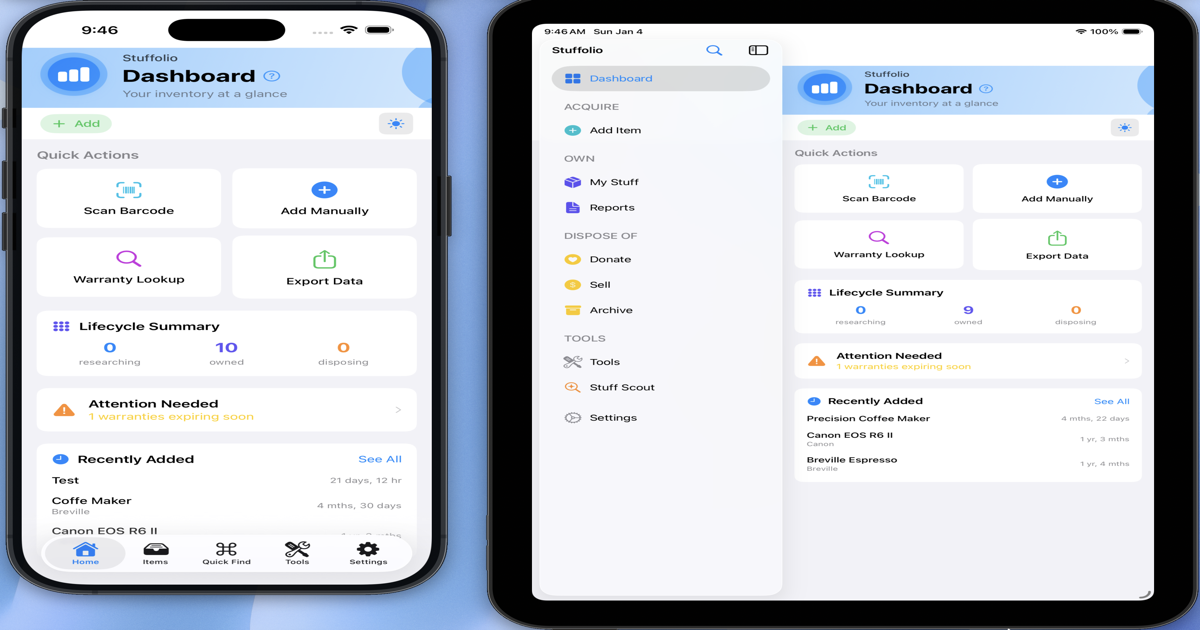
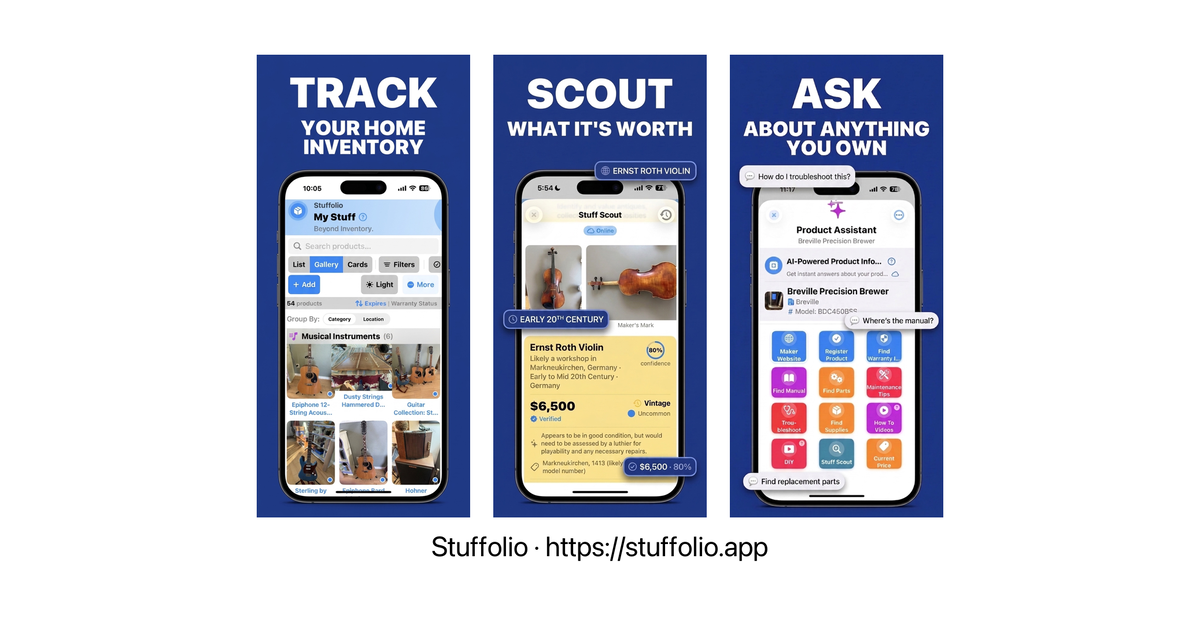
Replace OG share image with TRACK/SCOUT/ASK hero card
The link-preview image (og-image.png) was the dashboard-screenshots
collage, so iMessage/social cards showed the dashboard instead of the
app's hero. Replace it with a 1200x630 card composed from the
app-store-showcase (TRACK / SCOUT / ASK panels + stuffolio.app footer).

Bump og:image and twitter:image to ?v=2 on index.html to bust scraper
caches so the new card is re-fetched.

diff --git a/index.html b/index.html
@@ -21,17 +21,17 @@
   <meta property="og:url" content="https://stuffolio.app/" />
   <meta property="og:title" content="Stuffolio - Know your stuff. Take care of it. Decide what's next." />
   <meta property="og:description" content="Track warranties, document for insurance, plan who gets what, and research anything you own from a photo. The home inventory app built around stewardship." />
-  <meta property="og:image" content="https://stuffolio.app/assets/og-image.png" />
+  <meta property="og:image" content="https://stuffolio.app/assets/og-image.png?v=2" />
   <meta property="og:image:width" content="1200" />
   <meta property="og:image:height" content="630" />
-  <meta property="og:image:alt" content="Stuffolio: know your stuff, take care of it, decide what's next. Home inventory built around stewardship." />
+  <meta property="og:image:alt" content="Stuffolio: Track your home inventory, Scout what it's worth, and Ask about anything you own." />
   <meta property="og:site_name" content="Stuffolio" />
 
   <!-- Twitter Card -->
   <meta name="twitter:card" content="summary_large_image" />
   <meta name="twitter:title" content="Stuffolio - Know your stuff. Take care of it. Decide what's next." />
   <meta name="twitter:description" content="Know your stuff. Take care of it. Decide what's next. Warranties, insurance, legacy planning, and AI research for what you already own." />
-  <meta name="twitter:image" content="https://stuffolio.app/assets/og-image.png" />
+  <meta name="twitter:image" content="https://stuffolio.app/assets/og-image.png?v=2" />
 
   <!-- Canonical URL -->
   <link rel="canonical" href="https://stuffolio.app/" />
@@ -461,7 +461,7 @@
               <h1 style="margin-top:0;">
                 <span class="brand-name">Stuffolio</span>: Know your <span class="stuff-accent">stuff</span>. Take care of it. Decide what's next.
               </h1>
-              <address class="byline" itemprop="author"><span itemprop="name">Coffee &amp; Code LLC</span> · <time datetime="2026-06-19">Updated June 2026</time></address>
+              <address class="byline" itemprop="author"><span itemprop="name">Coffee &amp; Code LLC</span> · <time datetime="2026-06-20">Updated June 2026</time></address>
             </div>
           </div>
 